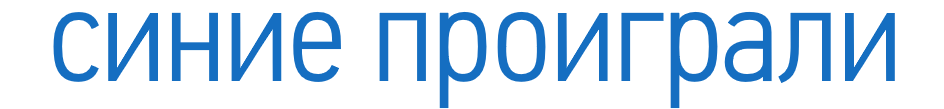
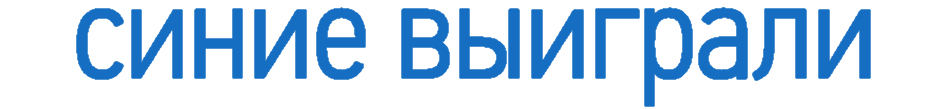
another end condition + font size

diff --git a/core/src/lioshik/corporation/LANscreen/LANMenuScreen.java b/core/src/lioshik/corporation/LANscreen/LANMenuScreen.java
@@ -147,14 +147,20 @@ public class LANMenuScreen extends ScreenAdapter {
         BitmapFont font;
         FreeTypeFontGenerator generator = new FreeTypeFontGenerator(Gdx.files.internal("game_font.ttf"));
         FreeTypeFontGenerator.FreeTypeFontParameter parameter = new FreeTypeFontGenerator.FreeTypeFontParameter();
-        parameter.size = 30;
+        parameter.size = 90;
         parameter.characters = "ПКйцукенгшщзхъфывапролджэячсмитьбю1234567890: /";
         font = generator.generateFont(parameter);
         int code = new Random().nextInt() % (20000) + 30000;
         Label serverCodeText = new Label("Код доступа: " + code, new Label.LabelStyle(font, Color.BLACK));
+        serverCodeText.setFontScale(serverDialogStage.getWidth() * 0.55f  / serverCodeText.getWidth());
+        serverCodeText.setHeight(serverDialogStage.getHeight() / 5);
+        serverCodeText.setAlignment(Align.center);
         serverCodeText.setPosition((serverDialogStage.getWidth() - serverCodeText.getWidth()) / 2.0f, (serverDialogStage.getHeight() * 0.75f - serverCodeText.getHeight() / 2.0f));
         playersLabel = new Label("Подключено игроков: " + 0 + "/4", new Label.LabelStyle(font, Color.BLACK));
-        playersLabel.setPosition((serverDialogStage.getWidth() - playersLabel.getWidth()) / 2.0f, (serverDialogStage.getHeight() * 0.75f - playersLabel.getHeight() / 2.0f) - serverCodeText.getHeight() * 1.5f);
+        playersLabel.setFontScale(serverDialogStage.getWidth()* 0.9f  / playersLabel.getWidth());
+        playersLabel.setHeight(serverDialogStage.getHeight() / 5);
+        playersLabel.setAlignment(Align.center);
+        playersLabel.setPosition((serverDialogStage.getWidth()- playersLabel.getWidth()) / 2.0f, (serverDialogStage.getHeight() * 0.75f - playersLabel.getHeight() / 2.0f) - serverCodeText.getHeight() * 1.5f);
         ImageButton buttonCancel = new ImageButton(new TextureRegionDrawable(TextureContainer.buttonCancelUp), new TextureRegionDrawable(TextureContainer.buttonCancelDown));
         ImageButton buttonLaunch = new ImageButton(new TextureRegionDrawable(TextureContainer.buttonLaunchUp), new TextureRegionDrawable(TextureContainer.buttonLaunchDown));
         float scale = serverDialogStage.getWidth() / 2.5f / buttonCancel.getWidth();
@@ -162,10 +168,10 @@ public class LANMenuScreen extends ScreenAdapter {
         buttonLaunch.setSize(buttonCancel.getWidth(), buttonCancel.getHeight());
         buttonCancel.setPosition(serverDialogStage.getWidth() * 0.25f - buttonCancel.getWidth() / 2f, buttonCancel.getHeight());
         buttonLaunch.setPosition(serverDialogStage.getWidth() - (buttonCancel.getWidth() + buttonCancel.getX()), buttonCancel.getY());
-        serverDialogStage.addActor(buttonCancel);
-        serverDialogStage.addActor(buttonLaunch);
         serverDialogStage.addActor(serverCodeText);
         serverDialogStage.addActor(playersLabel);
+        serverDialogStage.addActor(buttonCancel);
+        serverDialogStage.addActor(buttonLaunch);
         stage.addActor(serverDialogStage);
         generator.dispose();
         server = new GameServer(code, this);
@@ -201,10 +207,12 @@ public class LANMenuScreen extends ScreenAdapter {
         BitmapFont font;
         FreeTypeFontGenerator generator = new FreeTypeFontGenerator(Gdx.files.internal("game_font.ttf"));
         FreeTypeFontGenerator.FreeTypeFontParameter parameter = new FreeTypeFontGenerator.FreeTypeFontParameter();
-        parameter.size = 30;
+        parameter.size = 90;
         parameter.characters = "ПВОКйцукенгшщзхъфывапролджэячсмитьбю1234567890: /";
         font = generator.generateFont(parameter);
         final TextField serverCodeText = new TextField("Введите код", new TextField.TextFieldStyle(font, Color.BLACK, null, null, null));
+        float fieldScale = Math.min(clientDialogStage.getWidth() * 0.9f / serverCodeText.getWidth(), clientDialogStage.getHeight() / serverCodeText.getHeight());
+        serverCodeText.setWidth(clientDialogStage.getWidth() * 0.9f);
         serverCodeText.setTextFieldFilter(new TextField.TextFieldFilter() {
             @Override
             public boolean acceptChar(TextField textField, char c) {
@@ -228,6 +236,7 @@ public class LANMenuScreen extends ScreenAdapter {
         });
         serverCodeText.setPosition((clientDialogStage.getWidth() - serverCodeText.getWidth()) / 2.0f, (clientDialogStage.getHeight() * 0.75f - serverCodeText.getHeight() / 2.0f));
         playersLabel = new Label("Подключено игркоков: 0/4", new Label.LabelStyle(font, Color.BLACK));
+        playersLabel.setFontScale(clientDialogStage.getWidth()* 0.9f  / playersLabel.getWidth());
         playersLabel.setPosition((clientDialogStage.getWidth() - playersLabel.getWidth()) / 2.0f, (clientDialogStage.getHeight() * 0.75f - playersLabel.getHeight() / 2.0f) - serverCodeText.getHeight() * 1.5f);
         playersLabel.setText("");
         playersLabel.setAlignment(Align.center);
@@ -238,10 +247,10 @@ public class LANMenuScreen extends ScreenAdapter {
         buttonLaunch.setSize(buttonCancel.getWidth(), buttonCancel.getHeight());
         buttonCancel.setPosition(clientDialogStage.getWidth() * 0.25f - buttonCancel.getWidth() / 2f, buttonCancel.getHeight());
         buttonLaunch.setPosition(clientDialogStage.getWidth() - (buttonCancel.getWidth() + buttonCancel.getX()), buttonCancel.getY());
-        clientDialogStage.addActor(buttonCancel);
-        clientDialogStage.addActor(buttonLaunch);
         clientDialogStage.addActor(serverCodeText);
         clientDialogStage.addActor(playersLabel);
+        clientDialogStage.addActor(buttonCancel);
+        clientDialogStage.addActor(buttonLaunch);
         stage.addActor(clientDialogStage);
         generator.dispose();
         buttonCancel.addListener(new ClickListener() {

diff --git a/core/src/lioshik/corporation/gameScreen/GameRulesController.java b/core/src/lioshik/corporation/gameScreen/GameRulesController.java
@@ -9,6 +9,7 @@ public class GameRulesController {
     GameScreen game;
 
     public int whichTurn = 0;
+    public int lastTurn = 0;
     private boolean[] firstTurn;
     public int oneTurnCount= 0;
     public int playersCount;
@@ -45,6 +46,7 @@ public class GameRulesController {
                 break;
         }
         if (cellAvailableForColor(x, y, crLockedColor, crTargetColor)) {
+            lastTurn = whichTurn;
             firstTurn[whichTurn] = false;
             if (game.field.cellArray.get(x).get(y).state == Cell.ColorState.EMPTY) {
                 game.field.cellArray.get(x).get(y).changeColor(crTargetColor);
@@ -59,8 +61,20 @@ public class GameRulesController {
                 oneTurnCount = 0;
                 game.field.nextLineColorState = colors[whichTurn];
             }
-            if (!updateAvailableCells()){
-                game.gameEndDialog(whichTurn);
+            int skipped = 0;
+            while (!updateAvailableCells() && skipped < playersCount - 1) {
+                oneTurnCount = 0;
+                whichTurn = (whichTurn + 1) % playersCount;
+                if (game.field.crLineScale != 0) {
+                    game.field.nextLineColorState = colors[whichTurn];
+                } else {
+                    game.field.crLineColorState = colors[whichTurn];
+                }
+                game.field.targetLineScale = 0;
+                skipped++;
+            }
+            if (skipped == playersCount - 1) {
+                game.gameEndDialog(lastTurn);
             }
         } else {
             game.field.cellArray.get(x).get(y).startShakeAnim();
@@ -68,8 +82,20 @@ public class GameRulesController {
     }
 
     public void checkGameEnd(){
-        if (!updateAvailableCells()) {
-            game.gameEndDialog(whichTurn);
+        int skipped = 0;
+        while (!updateAvailableCells() && skipped < playersCount - 1) {
+            oneTurnCount = 0;
+            whichTurn = (whichTurn + 1) % playersCount;
+            if (game.field.crLineScale != 0) {
+                game.field.nextLineColorState = colors[whichTurn];
+            } else {
+                game.field.crLineColorState = colors[whichTurn];
+            }
+            game.field.targetLineScale = 0;
+            skipped++;
+        }
+        if (skipped == playersCount - 1) {
+            game.gameEndDialog(lastTurn);
         }
     }
 

diff --git a/core/src/lioshik/corporation/gameScreen/Cell.java b/core/src/lioshik/corporation/gameScreen/Cell.java
@@ -19,7 +19,7 @@ public class Cell extends Sprite {
     }
     public ColorState state;
     public boolean isLocked() {
-        return state == ColorState.COLOR2Locked || state == ColorState.COLOR1Locked || state == ColorState.COLOR3Locked || state == ColorState.COLOR1Locked;
+        return state == ColorState.COLOR2Locked || state == ColorState.COLOR1Locked || state == ColorState.COLOR3Locked || state == ColorState.COLOR4Locked;
     }
 
     public Cell(float posX, float posY, float size) {

diff --git a/core/src/lioshik/corporation/gameScreen/PlayingField.java b/core/src/lioshik/corporation/gameScreen/PlayingField.java
@@ -16,7 +16,7 @@ public class PlayingField {
     public Rectangle tableRectangle;
     private float lineWidth;
     public float targetLineScale = 0.0f;
-    private float crLineScale = 0.0f;
+    public float crLineScale = 0.0f;
     public Cell.ColorState crLineColorState = Cell.ColorState.COLOR1;
     public Cell.ColorState nextLineColorState;
 

diff --git a/core/src/lioshik/corporation/client/GameClient.java b/core/src/lioshik/corporation/client/GameClient.java
@@ -147,7 +147,7 @@ public class GameClient {
                         }
                     }
                 }
-                gameRulesController.checkGameEnd();
+                //gameRulesController.checkGameEnd();
             }
         });
     }
